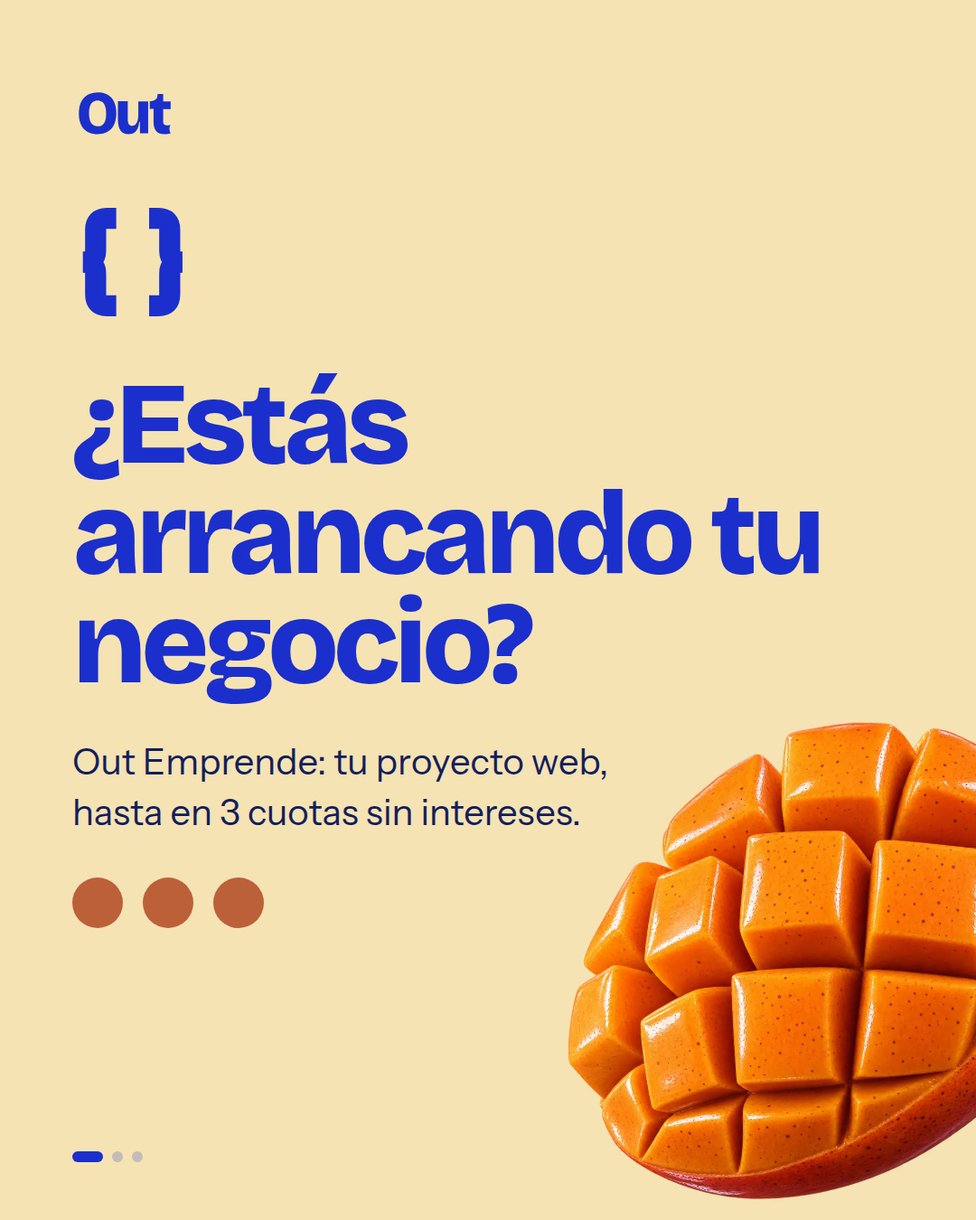
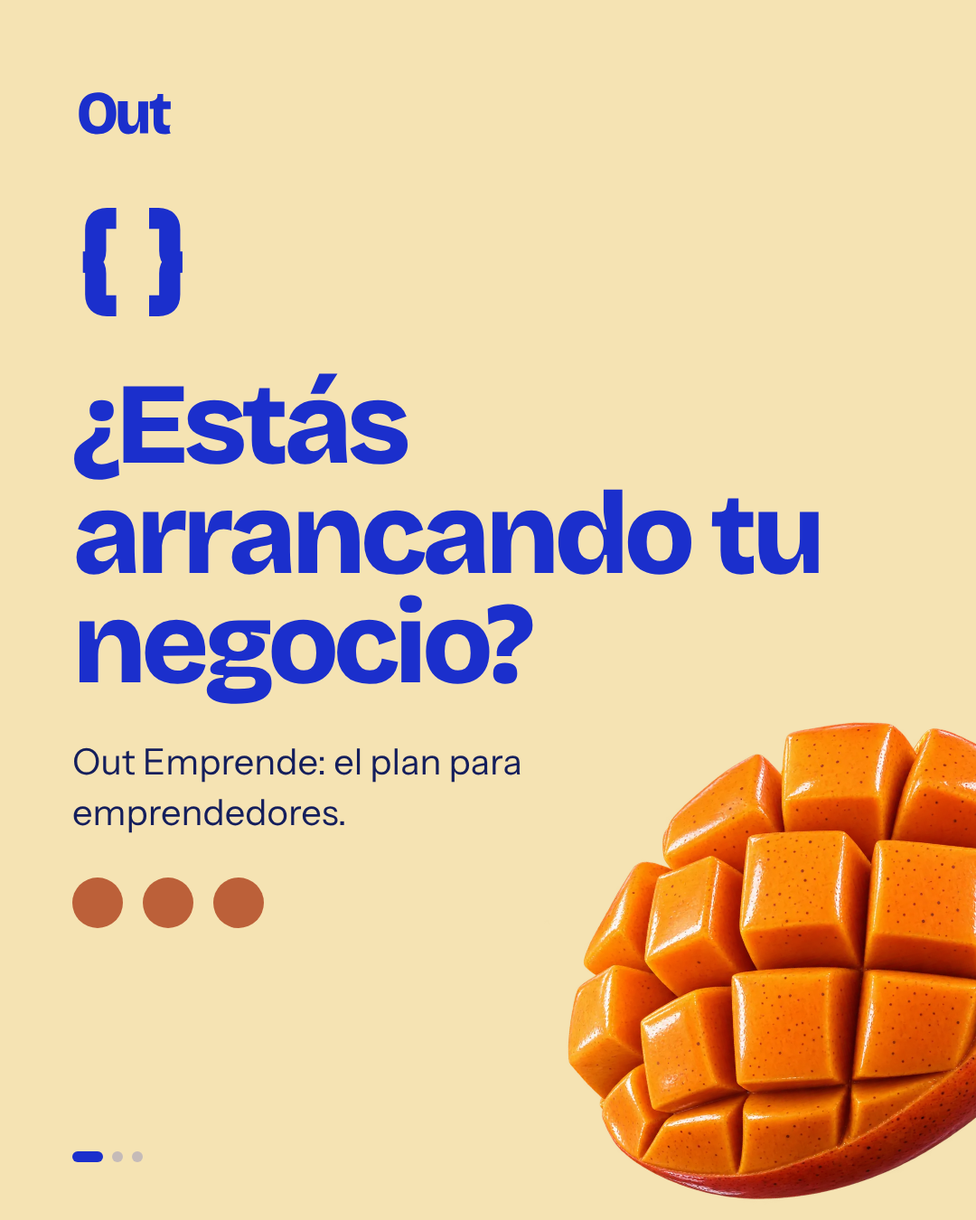
Quita '3 cuotas sin intereses' del sitio y los materiales: Out Emprende queda como el plan para emprendedores
Claude-Session: https://claude.ai/code/session_01BzT1ouPAUQAyY91NofEXdp

Changed region(s): [[0.0611, 0.6222, 0.6111, 0.6844]]

diff --git a/out-emprende/index.html b/out-emprende/index.html
@@ -3,8 +3,8 @@
   <head>
     <meta charset="UTF-8" />
     <meta name="viewport" content="width=device-width, initial-scale=1.0" />
-    <title>Out Emprende: tu sitio, tienda o marca hasta en 3 cuotas | Out Studio</title>
-    <meta name="description" content="Tienda online, sitio web, landing page o marca para emprendedores en Colombia, con diseño UX/UI a la medida y hasta en 3 cuotas sin intereses." />
+    <title>Out Emprende: tu sitio, tienda o marca para emprendedores | Out Studio</title>
+    <meta name="description" content="Tienda online, sitio web, landing page o marca para emprendedores en Colombia, con diseño UX/UI a la medida y un plan pensado para quienes están empezando." />
     <meta name="robots" content="index, follow, max-image-preview:large" />
     <link rel="canonical" href="https://outstudio.online/out-emprende/" />
     <link rel="alternate" hreflang="es-CO" href="https://outstudio.online/out-emprende/" />
@@ -17,21 +17,21 @@
     <meta property="og:site_name" content="Out Studio" />
     <meta property="og:locale" content="es_CO" />
     <meta property="og:type" content="website" />
-    <meta property="og:title" content="Out Emprende: tu sitio, tienda o marca hasta en 3 cuotas | Out Studio" />
-    <meta property="og:description" content="Tienda online, sitio web, landing page o marca para emprendedores en Colombia, con diseño UX/UI a la medida y hasta en 3 cuotas sin intereses." />
+    <meta property="og:title" content="Out Emprende: tu sitio, tienda o marca para emprendedores | Out Studio" />
+    <meta property="og:description" content="Tienda online, sitio web, landing page o marca para emprendedores en Colombia, con diseño UX/UI a la medida y un plan pensado para quienes están empezando." />
     <meta property="og:url" content="https://outstudio.online/out-emprende/" />
     <meta property="og:image" content="https://outstudio.online/og.png" />
     <meta property="og:image:width" content="1200" />
     <meta property="og:image:height" content="630" />
     <meta property="og:image:alt" content="Out Studio: desarrollo web y tiendas Shopify en Colombia" />
     <meta name="twitter:card" content="summary_large_image" />
-    <meta name="twitter:title" content="Out Emprende: tu sitio, tienda o marca hasta en 3 cuotas | Out Studio" />
-    <meta name="twitter:description" content="Tienda online, sitio web, landing page o marca para emprendedores en Colombia, con diseño UX/UI a la medida y hasta en 3 cuotas sin intereses." />
+    <meta name="twitter:title" content="Out Emprende: tu sitio, tienda o marca para emprendedores | Out Studio" />
+    <meta name="twitter:description" content="Tienda online, sitio web, landing page o marca para emprendedores en Colombia, con diseño UX/UI a la medida y un plan pensado para quienes están empezando." />
     <meta name="twitter:image" content="https://outstudio.online/og.png" />
 
-    <script type="application/ld+json">{"@context":"https://schema.org","@type":"Service","name":"Out Emprende: tu proyecto web, hasta en 3 cuotas","description":"Tienda online, sitio web, landing page o marca para emprendedores en Colombia, con diseño UX/UI a la medida y hasta en 3 cuotas sin intereses.","url":"https://outstudio.online/out-emprende/","serviceType":"Out Emprende","provider":{"@id":"https://outstudio.online/#organization"},"areaServed":{"@type":"Country","name":"Colombia"}}</script>
+    <script type="application/ld+json">{"@context":"https://schema.org","@type":"Service","name":"Out Emprende: el plan para emprendedores","description":"Tienda online, sitio web, landing page o marca para emprendedores en Colombia, con diseño UX/UI a la medida y un plan pensado para quienes están empezando.","url":"https://outstudio.online/out-emprende/","serviceType":"Out Emprende","provider":{"@id":"https://outstudio.online/#organization"},"areaServed":{"@type":"Country","name":"Colombia"}}</script>
     <script type="application/ld+json">{"@context":"https://schema.org","@type":"BreadcrumbList","itemListElement":[{"@type":"ListItem","position":1,"name":"Inicio","item":"https://outstudio.online/"},{"@type":"ListItem","position":2,"name":"Out Emprende","item":"https://outstudio.online/out-emprende/"}]}</script>
-    <script type="application/ld+json">{"@context":"https://schema.org","@type":"FAQPage","mainEntity":[{"@type":"Question","name":"¿Cómo funcionan las cuotas?","acceptedAnswer":{"@type":"Answer","text":"Te enviamos una cotización a la medida de tu tienda y puedes pagarla hasta en 3 cuotas mensuales sin intereses: la primera para arrancar y las demás cada 30 días."}},{"@type":"Question","name":"¿Qué tipo de proyectos incluye?","acceptedAnswer":{"@type":"Answer","text":"Tiendas online en Shopify, sitios web informativos en WordPress, landing pages y branding (logo e identidad visual). Puedes hacer uno solo o combinarlos."}},{"@type":"Question","name":"¿Cuánto cuesta?","acceptedAnswer":{"@type":"Answer","text":"Depende de tu tienda, así que no damos una cifra al azar. Cuéntanos tu proyecto y te enviamos la cotización en 6 a 24 horas, con un valor pensado para emprendedores."}},{"@type":"Question","name":"¿Cuántos productos puedo tener?","acceptedAnswer":{"@type":"Answer","text":"Si es una tienda online, el plan incluye hasta 40 productos y nosotros los cargamos. Si tienes más, te armamos una propuesta a la medida."}},{"@type":"Question","name":"¿Cómo sé si califico para Out Emprende?","acceptedAnswer":{"@type":"Answer","text":"Es para negocios de cualquier sector que están empezando o llevan menos de 2 años vendiendo, o que hacen su primera tienda, sitio o marca, con hasta 40 productos si es una tienda y sin integraciones especiales. Al pedir tu cotización te hacemos dos preguntas rápidas y confirmamos si aplicas en la primera conversación."}},{"@type":"Question","name":"¿Qué no incluye?","acceptedAnswer":{"@type":"Answer","text":"No incluye integraciones a medida (facturación electrónica, inventario o ERP), suscripciones, varios idiomas o monedas, ni costos de terceros como la mensualidad de Shopify, el hosting y dominio, las aplicaciones de pago o las comisiones de la pasarela."}},{"@type":"Question","name":"¿Puedo crecer después?","acceptedAnswer":{"@type":"Answer","text":"Sí. Cuando tu negocio lo necesite, ampliamos tu tienda o la llevamos a un proyecto a medida."}}]}</script>
+    <script type="application/ld+json">{"@context":"https://schema.org","@type":"FAQPage","mainEntity":[{"@type":"Question","name":"¿Qué es Out Emprende?","acceptedAnswer":{"@type":"Answer","text":"Es nuestro plan para emprendedores y negocios que están arrancando. Te enviamos una cotización a la medida de tu proyecto, con el mismo cuidado de diseño UX/UI de todos nuestros proyectos."}},{"@type":"Question","name":"¿Qué tipo de proyectos incluye?","acceptedAnswer":{"@type":"Answer","text":"Tiendas online en Shopify, sitios web informativos en WordPress, landing pages y branding (logo e identidad visual). Puedes hacer uno solo o combinarlos."}},{"@type":"Question","name":"¿Cuánto cuesta?","acceptedAnswer":{"@type":"Answer","text":"Depende de tu tienda, así que no damos una cifra al azar. Cuéntanos tu proyecto y te enviamos la cotización en 6 a 24 horas, con un valor pensado para emprendedores."}},{"@type":"Question","name":"¿Cuántos productos puedo tener?","acceptedAnswer":{"@type":"Answer","text":"Si es una tienda online, el plan incluye hasta 40 productos y nosotros los cargamos. Si tienes más, te armamos una propuesta a la medida."}},{"@type":"Question","name":"¿Cómo sé si califico para Out Emprende?","acceptedAnswer":{"@type":"Answer","text":"Es para negocios de cualquier sector que están empezando o llevan menos de 2 años vendiendo, o que hacen su primera tienda, sitio o marca, con hasta 40 productos si es una tienda y sin integraciones especiales. Al pedir tu cotización te hacemos dos preguntas rápidas y confirmamos si aplicas en la primera conversación."}},{"@type":"Question","name":"¿Qué no incluye?","acceptedAnswer":{"@type":"Answer","text":"No incluye integraciones a medida (facturación electrónica, inventario o ERP), suscripciones, varios idiomas o monedas, ni costos de terceros como la mensualidad de Shopify, el hosting y dominio, las aplicaciones de pago o las comisiones de la pasarela."}},{"@type":"Question","name":"¿Puedo crecer después?","acceptedAnswer":{"@type":"Answer","text":"Sí. Cuando tu negocio lo necesite, ampliamos tu tienda o la llevamos a un proyecto a medida."}}]}</script>
   </head>
   <body>
     <div id="root" data-slug="out-emprende"></div>

diff --git a/index.html b/index.html
@@ -29,7 +29,7 @@
     <meta name="twitter:description" content="Especialistas en diseño UX/UI y desarrollo web en Colombia: tiendas Shopify, sitios WordPress, landing pages y branding a medida con código propio." />
     <meta name="twitter:image" content="https://outstudio.online/og.png" />
 
-    <script type="application/ld+json">{"@context":"https://schema.org","@type":["Organization","ProfessionalService"],"@id":"https://outstudio.online/#organization","name":"Out Studio","alternateName":["Out","Out Studio Colombia"],"url":"https://outstudio.online/","logo":"https://outstudio.online/logo-out.png","image":"https://outstudio.online/og.png","description":"Estudio de diseño UX/UI y desarrollo web en Colombia: tiendas Shopify, e-commerce, sitios WordPress, landing pages y branding a medida, con código propio.","email":"oscar.diaz@outstudio.online","telephone":"+573188888392","slogan":"Never the usual.","address":{"@type":"PostalAddress","addressLocality":"Bogotá","addressCountry":"CO"},"areaServed":{"@type":"Country","name":"Colombia"},"founder":{"@type":"Person","name":"Oscar Díaz","jobTitle":"UX/UI Specialist y desarrollador WordPress y Shopify"},"knowsAbout":["Diseño UX/UI","Experiencia de usuario","Desarrollo web","Tiendas Shopify","E-commerce","WordPress","Branding"],"hasOfferCatalog":{"@type":"OfferCatalog","name":"Servicios de Out Studio","itemListElement":[{"@type":"Offer","itemOffered":{"@type":"Service","name":"Desarrollo web a medida en Colombia","url":"https://outstudio.online/servicios/desarrollo-web/"}},{"@type":"Offer","itemOffered":{"@type":"Service","name":"Tiendas Shopify y e-commerce en Colombia","url":"https://outstudio.online/servicios/tiendas-shopify/"}},{"@type":"Offer","itemOffered":{"@type":"Service","name":"Out Emprende: tu proyecto web, hasta en 3 cuotas","url":"https://outstudio.online/out-emprende/"}},{"@type":"Offer","itemOffered":{"@type":"Service","name":"Diseño de sitios web en WordPress a medida","url":"https://outstudio.online/servicios/sitios-wordpress/"}},{"@type":"Offer","itemOffered":{"@type":"Service","name":"Diseño de landing pages que convierten","url":"https://outstudio.online/servicios/landing-pages/"}},{"@type":"Offer","itemOffered":{"@type":"Service","name":"Diseño de logo e identidad visual para tu marca","url":"https://outstudio.online/servicios/branding/"}}]}}</script>
+    <script type="application/ld+json">{"@context":"https://schema.org","@type":["Organization","ProfessionalService"],"@id":"https://outstudio.online/#organization","name":"Out Studio","alternateName":["Out","Out Studio Colombia"],"url":"https://outstudio.online/","logo":"https://outstudio.online/logo-out.png","image":"https://outstudio.online/og.png","description":"Estudio de diseño UX/UI y desarrollo web en Colombia: tiendas Shopify, e-commerce, sitios WordPress, landing pages y branding a medida, con código propio.","email":"oscar.diaz@outstudio.online","telephone":"+573188888392","slogan":"Never the usual.","address":{"@type":"PostalAddress","addressLocality":"Bogotá","addressCountry":"CO"},"areaServed":{"@type":"Country","name":"Colombia"},"founder":{"@type":"Person","name":"Oscar Díaz","jobTitle":"UX/UI Specialist y desarrollador WordPress y Shopify"},"knowsAbout":["Diseño UX/UI","Experiencia de usuario","Desarrollo web","Tiendas Shopify","E-commerce","WordPress","Branding"],"hasOfferCatalog":{"@type":"OfferCatalog","name":"Servicios de Out Studio","itemListElement":[{"@type":"Offer","itemOffered":{"@type":"Service","name":"Desarrollo web a medida en Colombia","url":"https://outstudio.online/servicios/desarrollo-web/"}},{"@type":"Offer","itemOffered":{"@type":"Service","name":"Tiendas Shopify y e-commerce en Colombia","url":"https://outstudio.online/servicios/tiendas-shopify/"}},{"@type":"Offer","itemOffered":{"@type":"Service","name":"Out Emprende: el plan para emprendedores","url":"https://outstudio.online/out-emprende/"}},{"@type":"Offer","itemOffered":{"@type":"Service","name":"Diseño de sitios web en WordPress a medida","url":"https://outstudio.online/servicios/sitios-wordpress/"}},{"@type":"Offer","itemOffered":{"@type":"Service","name":"Diseño de landing pages que convierten","url":"https://outstudio.online/servicios/landing-pages/"}},{"@type":"Offer","itemOffered":{"@type":"Service","name":"Diseño de logo e identidad visual para tu marca","url":"https://outstudio.online/servicios/branding/"}}]}}</script>
     <script type="application/ld+json">{"@context":"https://schema.org","@type":"WebSite","@id":"https://outstudio.online/#website","url":"https://outstudio.online/","name":"Out Studio","alternateName":"Out","inLanguage":"es-CO","publisher":{"@id":"https://outstudio.online/#organization"}}</script>
   </head>
   <body>

diff --git a/src/pages/ServicePage.tsx b/src/pages/ServicePage.tsx
@@ -27,7 +27,7 @@ const SHORT: Record<string, string> = {
   'landing-pages': 'Páginas de campaña hechas para que la gente actúe.',
   branding: 'Logo e identidad visual con carácter.',
   'desarrollo-web': 'Sitios y tiendas a medida, con código propio.',
-  'out-emprende': 'Tu proyecto web, hasta en 3 cuotas sin intereses.',
+  'out-emprende': 'Tu proyecto web, con un plan pensado para emprendedores.',
 };
 const TILTS = [-3, 2.5, -2, 3];
 
@@ -210,22 +210,20 @@ function HeroArt({ theme }: { theme: Theme }) {
 }
 
 type Offer = {
-  installments: number;
   criteria: string[];
   note: string;
 };
 
-/** Forma de pago y a quién va dirigido el plan (sin cifras: el valor se cotiza). */
+/** A quién va dirigido el plan (sin cifras: el valor se cotiza). */
 function OfferBlock({ offer }: { offer: Offer }) {
   return (
     <section className="px-6 md:px-10 lg:px-16 py-14 sm:py-16 md:py-20 bg-paper-pure">
       <div className="max-w-[1100px] mx-auto grid grid-cols-1 md:grid-cols-[1fr_1.15fr] gap-6 md:gap-10 items-stretch">
         <div className="rounded-[28px] bg-klein text-paper-pure p-8 sm:p-10 flex flex-col">
-          <p className="text-carne text-sm">Forma de pago</p>
-          <p className="mt-3 font-display font-extrabold tracking-[-0.05em] leading-[0.95]" style={{ fontSize: 'clamp(2.6rem, 5.6vw, 4.2rem)' }}>
-            Hasta {offer.installments} cuotas
+          <p className="text-carne text-sm">Out Emprende</p>
+          <p className="mt-3 font-display font-extrabold tracking-[-0.05em] leading-[0.95]" style={{ fontSize: 'clamp(2.4rem, 5.2vw, 3.8rem)' }}>
+            Un plan para emprendedores
           </p>
-          <p className="mt-2 font-display font-bold text-2xl sm:text-3xl tracking-[-0.03em]">sin intereses</p>
           <p className="mt-4 text-paper-pure/80 leading-relaxed">
             Tienda, sitio web, landing page o marca. Te enviamos la cotización en 6 a 24 horas.
           </p>

diff --git a/src/sections/OutEmprendeSection.tsx b/src/sections/OutEmprendeSection.tsx
@@ -14,7 +14,7 @@ const POINTS = [
 /**
  * Out Emprende en su propia sección de la portada: el plan para emprendedores
  * (tienda, sitio, landing o marca) no es un servicio más de la lista, así que tiene su franja con la lámina
- * "Hasta 3 cuotas" y un sello que gira.
+ * "Plan para emprendedores" y un sello que gira.
  */
 export default function OutEmprendeSection() {
   const reduceMotion = useReducedMotion();
@@ -46,7 +46,7 @@ export default function OutEmprendeSection() {
             className="mt-5 max-w-[22ch] font-display font-bold tracking-[-0.03em] leading-[1.08] text-carne"
             style={{ fontSize: 'clamp(1.5rem, 3vw, 2.4rem)' }}
           >
-            Tu proyecto web, hasta en 3 cuotas sin intereses.
+            Tu proyecto web, con un plan pensado para emprendedores.
           </p>
 
           <ul className="mt-8 flex flex-col gap-3.5">
@@ -102,7 +102,7 @@ export default function OutEmprendeSection() {
                 <path id="sello" d="M50,50 m-36,0 a36,36 0 1,1 72,0 a36,36 0 1,1 -72,0" />
               </defs>
               <text fontSize="11" fontWeight="700" letterSpacing="1.4" fill="currentColor" style={{ fontFamily: 'var(--display)' }}>
-                <textPath href="#sello" textLength="222" lengthAdjust="spacing">SIN INTERESES · HASTA 3 CUOTAS · </textPath>
+                <textPath href="#sello" textLength="222" lengthAdjust="spacing">PLAN PARA EMPRENDEDORES · </textPath>
               </text>
             </svg>
             <span className="absolute inset-0 flex items-center justify-center">

diff --git a/src/components/ServiceScenes.tsx b/src/components/ServiceScenes.tsx
@@ -182,22 +182,17 @@ const SCENE_LIST: ReactNode[] = [
 
 // Cada lámina por clave, para usarla en el hover de Servicios y en la cabecera
 // de la página de cada servicio.
-// Out Emprende: el mango que arranca, sobre azul, con las tres cuotas.
+// Out Emprende: el mango que arranca, sobre crema, con el plan para emprendedores.
 const EMPRENDE = (
   <Scene key="emprende" bg={CREMA}>
     <Pair kind="curly" size="30cqw" color="#1B2FCC" className="absolute left-[8%] top-[7%]" />
     <span
       aria-hidden
       className="absolute left-[8%] top-[30%] font-display font-extrabold tracking-[-0.05em] leading-[0.9]"
-      style={{ fontSize: '17cqw', color: '#1B2FCC' }}
+      style={{ fontSize: '11.5cqw', color: '#1B2FCC' }}
     >
-      Hasta
-      <br />3 cuotas
-    </span>
-    <span aria-hidden className="absolute left-[8%] top-[62%] flex gap-[2.5cqw]">
-      {[0, 1, 2].map((i) => (
-        <span key={i} className="block rounded-full" style={{ width: '7cqw', height: '7cqw', background: '#BC6039' }} />
-      ))}
+      Plan para
+      <br />emprendedores
     </span>
     <img
       src={MANGO}

diff --git a/src/components/SiteNav.tsx b/src/components/SiteNav.tsx
@@ -101,7 +101,7 @@ function MobileMenu({ onClose }: { onClose: () => void }) {
         >
           <span className="flex flex-col gap-1">
             <span className="font-display font-extrabold tracking-[-0.03em] text-[clamp(1.2rem,6vw,1.5rem)] leading-none whitespace-nowrap">Out Emprende</span>
-            <span className="text-[13px] text-carne whitespace-nowrap">Hasta 3 cuotas sin intereses</span>
+            <span className="text-[13px] text-carne whitespace-nowrap">Plan para emprendedores</span>
           </span>
           <img src={`${HOME}mango-hero.webp`} alt="" className="w-[5.5rem] h-auto -my-6 -mr-4 rotate-[-12deg]" />
         </motion.a>

diff --git a/src/data/quote.ts b/src/data/quote.ts
@@ -427,7 +427,7 @@ export const COMMON_QUESTIONS: Question[] = [
   {
     id: 'emprende',
     label: '¿Tu negocio está empezando? (Out Emprende)',
-    help: 'Out Emprende es para negocios que están empezando: tu proyecto hasta en 3 cuotas sin intereses. Confirmamos si aplicas en la primera conversación.',
+    help: 'Out Emprende es nuestro plan para negocios que están empezando. Confirmamos si aplicas en la primera conversación.',
     kind: 'single',
     required: true,
     options: [

diff --git a/.agents/product-marketing.md b/.agents/product-marketing.md
@@ -16,7 +16,7 @@
 - Landing page: desde 1.200.000.
 - Tienda Shopify: desde 2.200.000.
 - Sitio WordPress: desde 4.500.000.
-- Out Emprende (emprendedores): hasta en 3 cuotas sin intereses, hasta 40 productos; valor no publicado (ver "Ofertas").
+- Out Emprende (emprendedores): plan para quienes están empezando, hasta 40 productos; valor no publicado y sin cuotas anunciadas (ver "Ofertas").
 
 ## Target Audience
 **Target companies:** Tres segmentos, en este orden de prioridad:
@@ -127,10 +127,11 @@
 **Current metrics:** Sin medir todavía. **[por confirmar: proyectos al mes hoy]**
 
 ## Ofertas
-**Out Emprende** (plan para emprendedores de cualquier sector): tienda Shopify, sitio web WordPress, landing page o branding, pagadero hasta en 3 cuotas mensuales sin intereses. Hasta 40 productos cargados por Out (más de eso, proyecto a medida). Incluye diseño adaptado a la marca, pasarela de pagos y envíos. El valor NO se publica: se cotiza según la tienda (referencia interna: alrededor de $2.200.000 COP, puede ser más o menos). Mensaje clave: "Tu proyecto web, hasta en 3 cuotas sin intereses". Calificación: el proyecto debe caber en el plan (hasta 40 productos, sin integraciones especiales) y el negocio estar empezando (menos de 2 años vendiendo o primera web). Si cabe pero no está empezando, se revisa en la reunión uno a uno; si no cabe, propuesta a la medida (el pago dividido se puede negociar, no se anuncia). El tamaño del equipo no cuenta. El formulario pregunta antigüedad y si ya tiene web solo a quien le interesa el plan, y el brief llega con la etiqueta de calificación. Cuando el negocio crezca, puede pasar a un proyecto a medida.
+**Out Emprende** (plan para emprendedores de cualquier sector): tienda Shopify, sitio web WordPress, landing page o branding. No se anuncian cuotas ni financiación: solo que existe un plan para emprendedores. Hasta 40 productos cargados por Out (más de eso, proyecto a medida). Incluye diseño adaptado a la marca, pasarela de pagos y envíos. El valor NO se publica: se cotiza según la tienda (referencia interna: alrededor de $2.200.000 COP, puede ser más o menos). Mensaje clave: "Out Emprende, el plan para emprendedores". Calificación: el proyecto debe caber en el plan (hasta 40 productos, sin integraciones especiales) y el negocio estar empezando (menos de 2 años vendiendo o primera web). Si cabe pero no está empezando, se revisa en la reunión uno a uno; si no cabe, propuesta a la medida (la forma de pago se conversa en la cotización, no se anuncia). El tamaño del equipo no cuenta. El formulario pregunta antigüedad y si ya tiene web solo a quien le interesa el plan, y el brief llega con la etiqueta de calificación. Cuando el negocio crezca, puede pasar a un proyecto a medida.
 
 ## Changelog
 *Newest first. One line per revision: what changed and why.*
+- v7 (2026-10-21) — Se quitan "3 cuotas sin intereses" de todo el sitio y los materiales: Out Emprende se comunica solo como el plan para emprendedores.
 - v6 (2026-10-12) — Out Emprende: tope de 40 productos, sin criterio de tamaño de equipo y calificación por alcance + etapa del negocio (sí / a revisar / no).
 - v5 (2026-10-12) — Out Emprende ampliado a todos los servicios (tienda, sitio, landing, marca) y a cualquier tipo de negocio; sección propia en el home y en el menú.
 - v4 (2026-10-12) — Out Emprende sin precio publicado: "hasta en 3 cuotas sin intereses", valor cotizado; criterios de elegibilidad añadidos.

diff --git a/docs/plan-marketing.md b/docs/plan-marketing.md
@@ -12,7 +12,7 @@ Out está empezando: hoy cierra 0 a 1 proyecto al mes, los clientes llegan por r
 Esa meta es alcanzable, pero no desde el primer mes. El plan sube por escalones: **1 a 2 proyectos al mes en diciembre, 3 en febrero y 5 o 6 en abril.** Para cerrar 5 o 6 proyectos hacen falta unas **20 a 25 cotizaciones al mes** (si se cierra 1 de cada 4), y para eso unas **40 a 50 conversaciones con posibles clientes**.
 
 **Tres apuestas:**
-1. **Out Emprende como puerta de entrada.** Es la oferta más fácil de vender (hasta 3 cuotas sin intereses) y apunta al mercado más grande: los negocios que hoy venden solo por Instagram y WhatsApp. Se le vende con contacto directo, uno a uno.
+1. **Out Emprende como puerta de entrada.** Es la oferta más fácil de vender (un plan pensado para quienes están empezando) y apunta al mercado más grande: los negocios que hoy venden solo por Instagram y WhatsApp. Se le vende con contacto directo, uno a uno.
 2. **Diario Deportes como caso para crecer hacia medios y marcas grandes.** Un caso bien contado (antes y después, video, datos) abre puertas a otros medios digitales, que pagan proyectos más grandes.
 3. **Activos que se acumulan.** Perfil de Google con reseñas, blog, contenido en redes y programa de referidos. Ninguno da clientes la primera semana, pero cada mes rinden más que el anterior.
 
@@ -27,7 +27,7 @@ Esa meta es alcanzable, pero no desde el primer mes. El plan sube por escalones:
 **A quién le vende, en orden:**
 | Segmento | Por qué | Oferta principal |
 |---|---|---|
-| Emprendedores y negocios que arrancan (cualquier sector) | Mercado grande, decisión rápida, el precio en cuotas quita la barrera | Out Emprende |
+| Emprendedores y negocios que arrancan (cualquier sector) | Mercado grande, decisión rápida, un plan pensado para ellos quita la barrera | Out Emprende |
 | Tiendas en línea que ya venden | Es el cliente actual; necesitan "vender más, rápido y fácil" | Tienda Shopify a medida, desde $2.200.000 |
 | Medios digitales y marcas más grandes | Proyectos de mayor valor; Diario Deportes abre la puerta | Rediseño y sitio a medida, desde $4.500.000 |
 
@@ -45,7 +45,7 @@ Esa meta es alcanzable, pero no desde el primer mes. El plan sube por escalones:
 |---|---|---|
 | Sitio web | Fuerte | Diseño propio, cotizador, chat con Mango, páginas de servicios, blog y SEO técnico listos |
 | Marca | Fuerte | Manual de marca, mascota, plantillas (grupo de WhatsApp) |
-| Oferta | Buena | Servicios claros, Out Emprende, descuento por referido, cuotas |
+| Oferta | Buena | Servicios claros, Out Emprende, descuento por referido |
 | Pruebas | Débil | 4 proyectos, sin datos de resultados ni testimonios |
 | Reseñas | Muy débil | Perfil de Google creado, sin reseñas reales |
 | Redes sociales | Por arrancar | Usuario de Instagram por confirmar, sin contenido regular |
@@ -151,7 +151,7 @@ El descuento para el cliente referido ya está en el cotizador. Falta el premio 
 
 | Servicio | Precio de referencia | Rol |
 |---|---|---|
-| Out Emprende | Se cotiza, hasta en 3 cuotas | Entrada, volumen |
+| Out Emprende | Se cotiza, plan para emprendedores | Entrada, volumen |
 | Landing page | Desde $1.200.000 | Entrada rápida, campañas |
 | Tienda Shopify a medida | Desde $2.200.000 | Producto principal |
 | Sitio WordPress | Desde $4.500.000 | Proyectos medianos |

diff --git a/docs/mensajes-whatsapp.md b/docs/mensajes-whatsapp.md
@@ -32,7 +32,7 @@ Enlaces:
 
 > ¡Hola [nombre]! ¿Cómo va [nombre del negocio]? [detalle: "Vi lo de…", "Me encantó…"].
 >
-> Te escribo porque arranqué con Out, mi estudio de diseño y desarrollo web. Estamos ayudando a negocios a tener su tienda online o su página bien hecha, y lancé Out Emprende, pensado para negocios que están arrancando: se puede pagar hasta en 3 cuotas sin intereses.
+> Te escribo porque arranqué con Out, mi estudio de diseño y desarrollo web. Estamos ayudando a negocios a tener su tienda online o su página bien hecha, y lancé Out Emprende, pensado para negocios que están arrancando.
 >
 > No te quiero vender nada a la fuerza: si en algún momento quieres que le eche un ojo a tu página o a cómo vendes en línea, te doy ideas sin compromiso. Y si conoces a alguien a quien le sirva, me ayudas mucho pasándole mi contacto.
 >
@@ -85,7 +85,7 @@ Enlaces:
 **A la persona recomendada:**
 > ¡Hola [nombre]! Soy Oscar, de Out. [Nombre de quien recomendó] me contó que estás [montando tu tienda / pensando en tu página]. Te escribo para ver si te puedo ayudar.
 >
-> Hacemos tiendas online, páginas y marcas con diseño a la medida, y para negocios que están arrancando tenemos Out Emprende, que se paga hasta en 3 cuotas sin intereses.
+> Hacemos tiendas online, páginas y marcas con diseño a la medida, y para negocios que están arrancando tenemos Out Emprende, nuestro plan para emprendedores.
 >
 > ¿Te parece si hablamos 15 minutos esta semana y me cuentas qué tienes en mente? Si prefieres, puedes pedir tu cotización aquí y te respondo en 6 a 24 horas: outstudio.online/#cotizar
 >

diff --git a/instagram/perfil/perfil.md b/instagram/perfil/perfil.md
@@ -35,8 +35,9 @@ Elige una. Ninguna lleva emojis.
 
 **Opción C (pensada para emprendedores):**
 
-> Tu página web o tienda online, a medida y hasta en 3 cuotas sin intereses.
-> Out Emprende. Diseño UX/UI, Colombia.
+> Tu página web o tienda online, a medida.
+> Out Emprende: el plan para emprendedores.
+> Diseño UX/UI, Colombia.
 
 Cuando tengas tu cara en los videos, puedes cambiar a una bio en primera persona
 ("Soy Oscar, fundador de Out...").
@@ -80,8 +81,8 @@ Imagen: `publicacion-presentacion.png` (1080 × 1350).
 > Landing pages.
 > Logo e identidad de marca.
 >
-> Si estás empezando, pregunta por Out Emprende: tu proyecto web, hasta en 3
-> cuotas sin intereses.
+> Si estás empezando, pregunta por Out Emprende, nuestro plan para
+> emprendedores.
 >
 > Cotiza con Mango en outstudio.online (link en la bio) y en 6 a 24 horas tienes
 > tu cotización.
@@ -113,9 +114,9 @@ rápidas. Copia estos textos y cámbialos si quieres.
 
 **Respuesta rápida: Out Emprende** (atajo `emprende`)
 
-> Out Emprende es para negocios que están arrancando: tu tienda online, tu sitio,
-> una landing o tu marca, con el mismo cuidado de diseño de todos nuestros
-> proyectos, y lo pagas hasta en 3 cuotas mensuales sin intereses. Cotiza en
+> Out Emprende es nuestro plan para emprendedores y negocios que están
+> arrancando: tu tienda online, tu sitio, una landing o tu marca, con el mismo
+> cuidado de diseño de todos nuestros proyectos. Cotiza en
 > outstudio.online/#cotizar.
 
 **Respuesta rápida: servicios** (atajo `servicios`)

diff --git a/instagram/lote-1/textos.md b/instagram/lote-1/textos.md
@@ -67,7 +67,7 @@ No tiene audio: ponle un sonido que esté sonando en Reels, a volumen bajo.
 
 > ¿Estás arrancando tu negocio y necesitas tu tienda online, tu página web, una landing page o tu marca?
 >
-> Para eso creamos Out Emprende: diseño UX/UI a la medida, sin plantillas, y lo pagas hasta en 3 cuotas sin intereses.
+> Para eso creamos Out Emprende: diseño UX/UI a la medida, sin plantillas, en un plan pensado para quienes están empezando.
 >
 > Es para ti si tu negocio está empezando, si es tu primera tienda o página profesional, u hoy vendes solo por redes y WhatsApp.
 >
@@ -75,7 +75,7 @@ No tiene audio: ponle un sonido que esté sonando en Reels, a volumen bajo.
 
 **Hashtags:** #Emprendimiento #EmprendedoresColombia #TiendaOnline #PáginaWeb #Branding #DiseñoWeb #PequeñosNegocios
 
-**Texto alternativo:** Carrusel de Out Emprende: proyecto web para negocios que están empezando, hasta en 3 cuotas sin intereses, con los requisitos para aplicar.
+**Texto alternativo:** Carrusel de Out Emprende: plan para emprendedores y negocios que están empezando, con los requisitos para aplicar.
 
 ---
 
